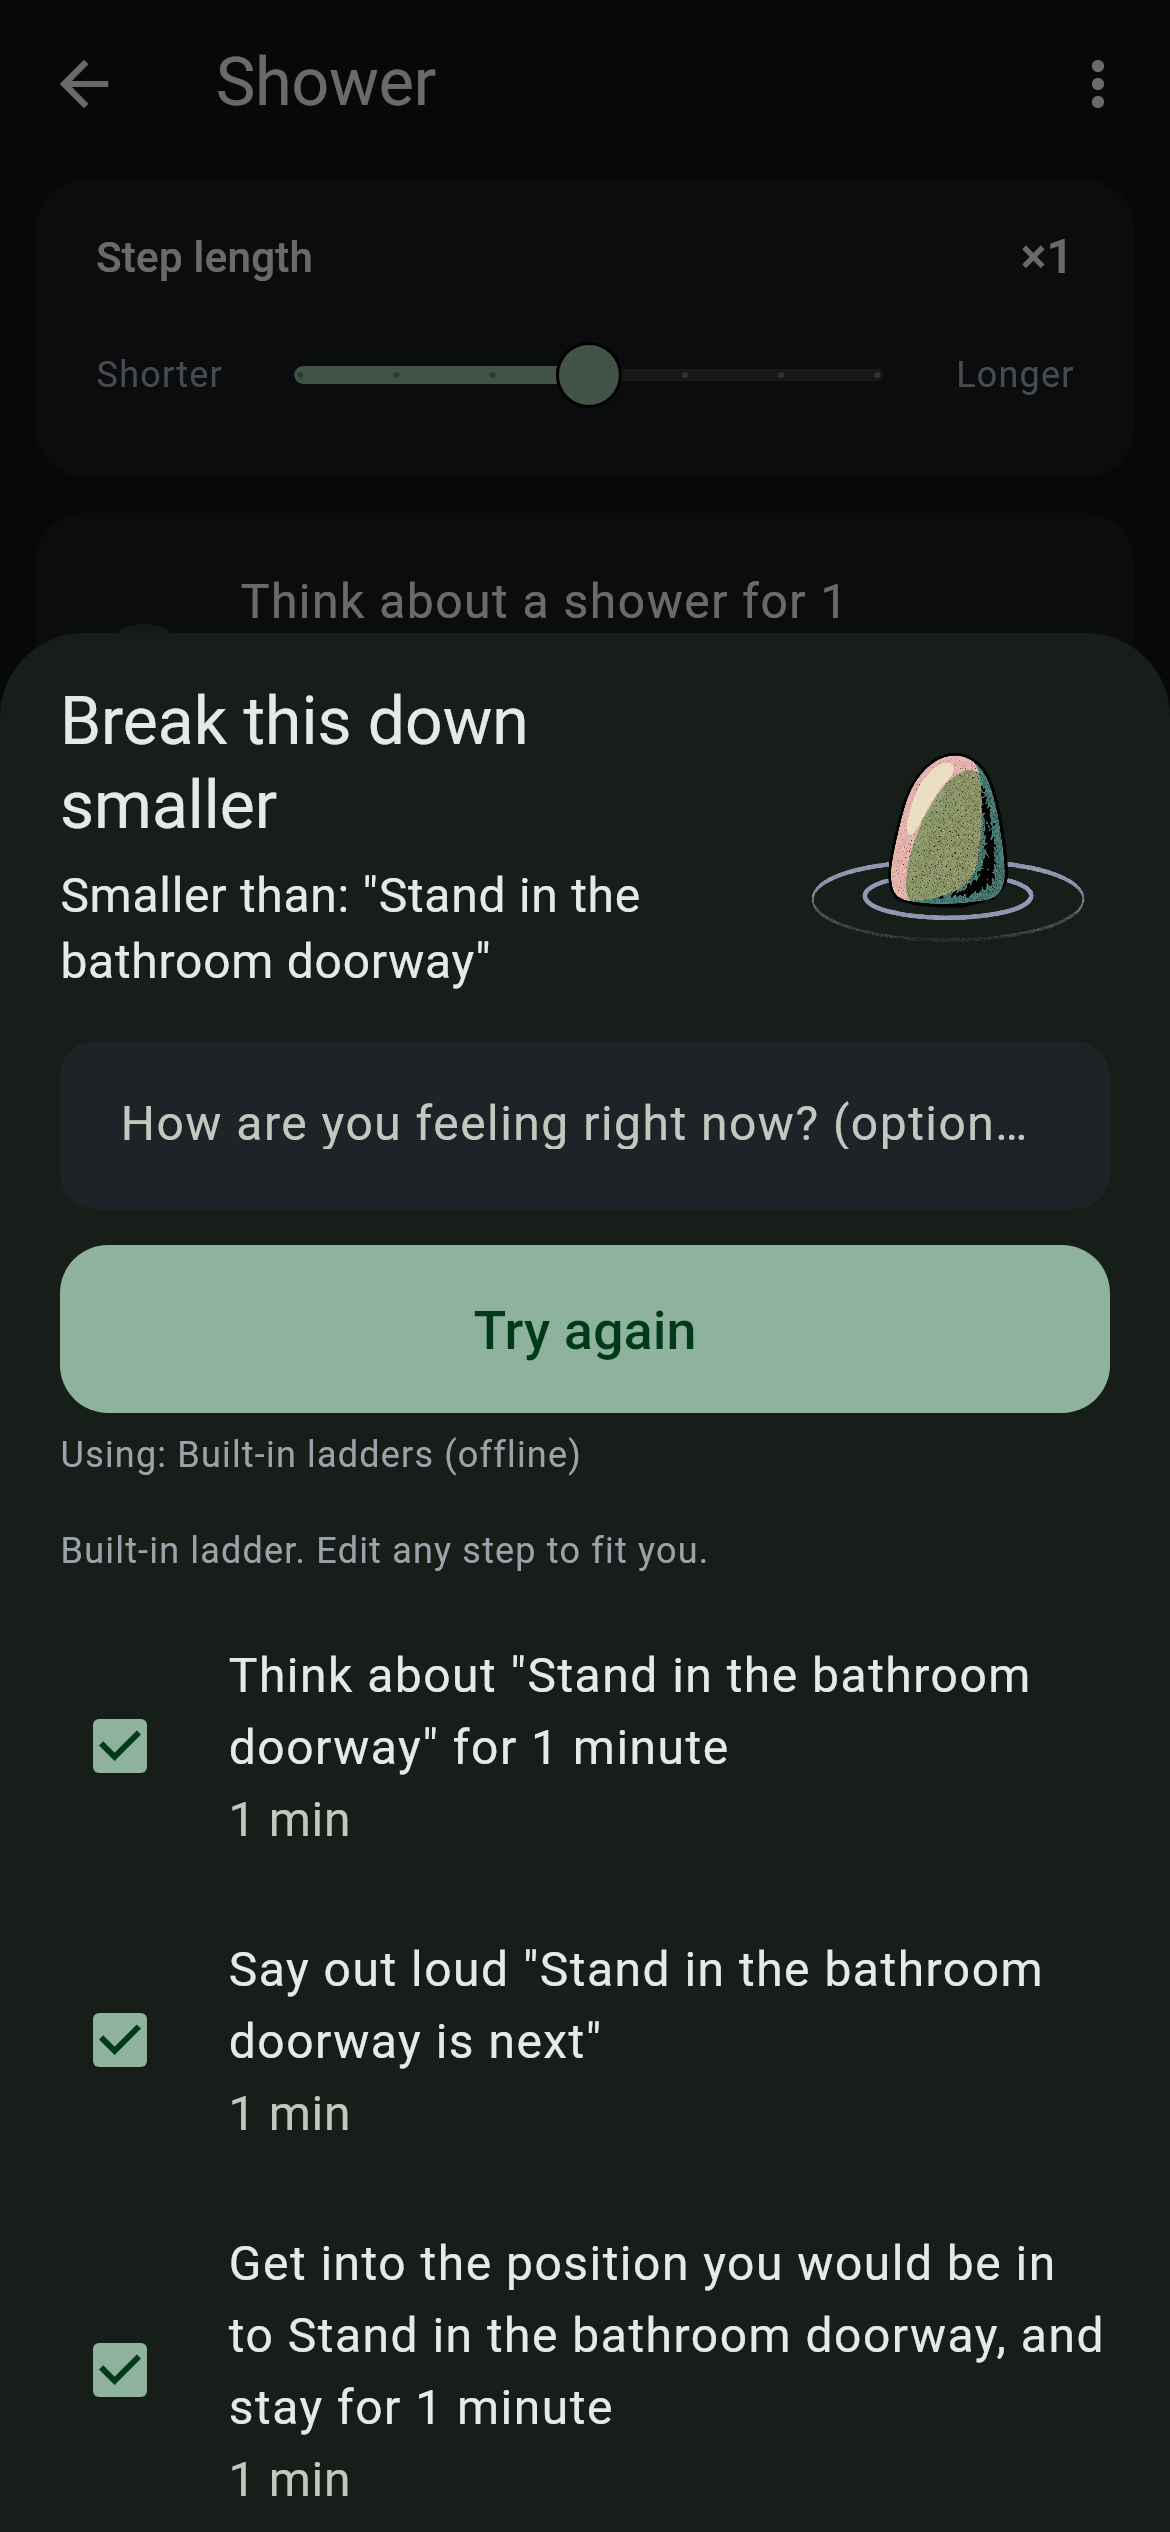
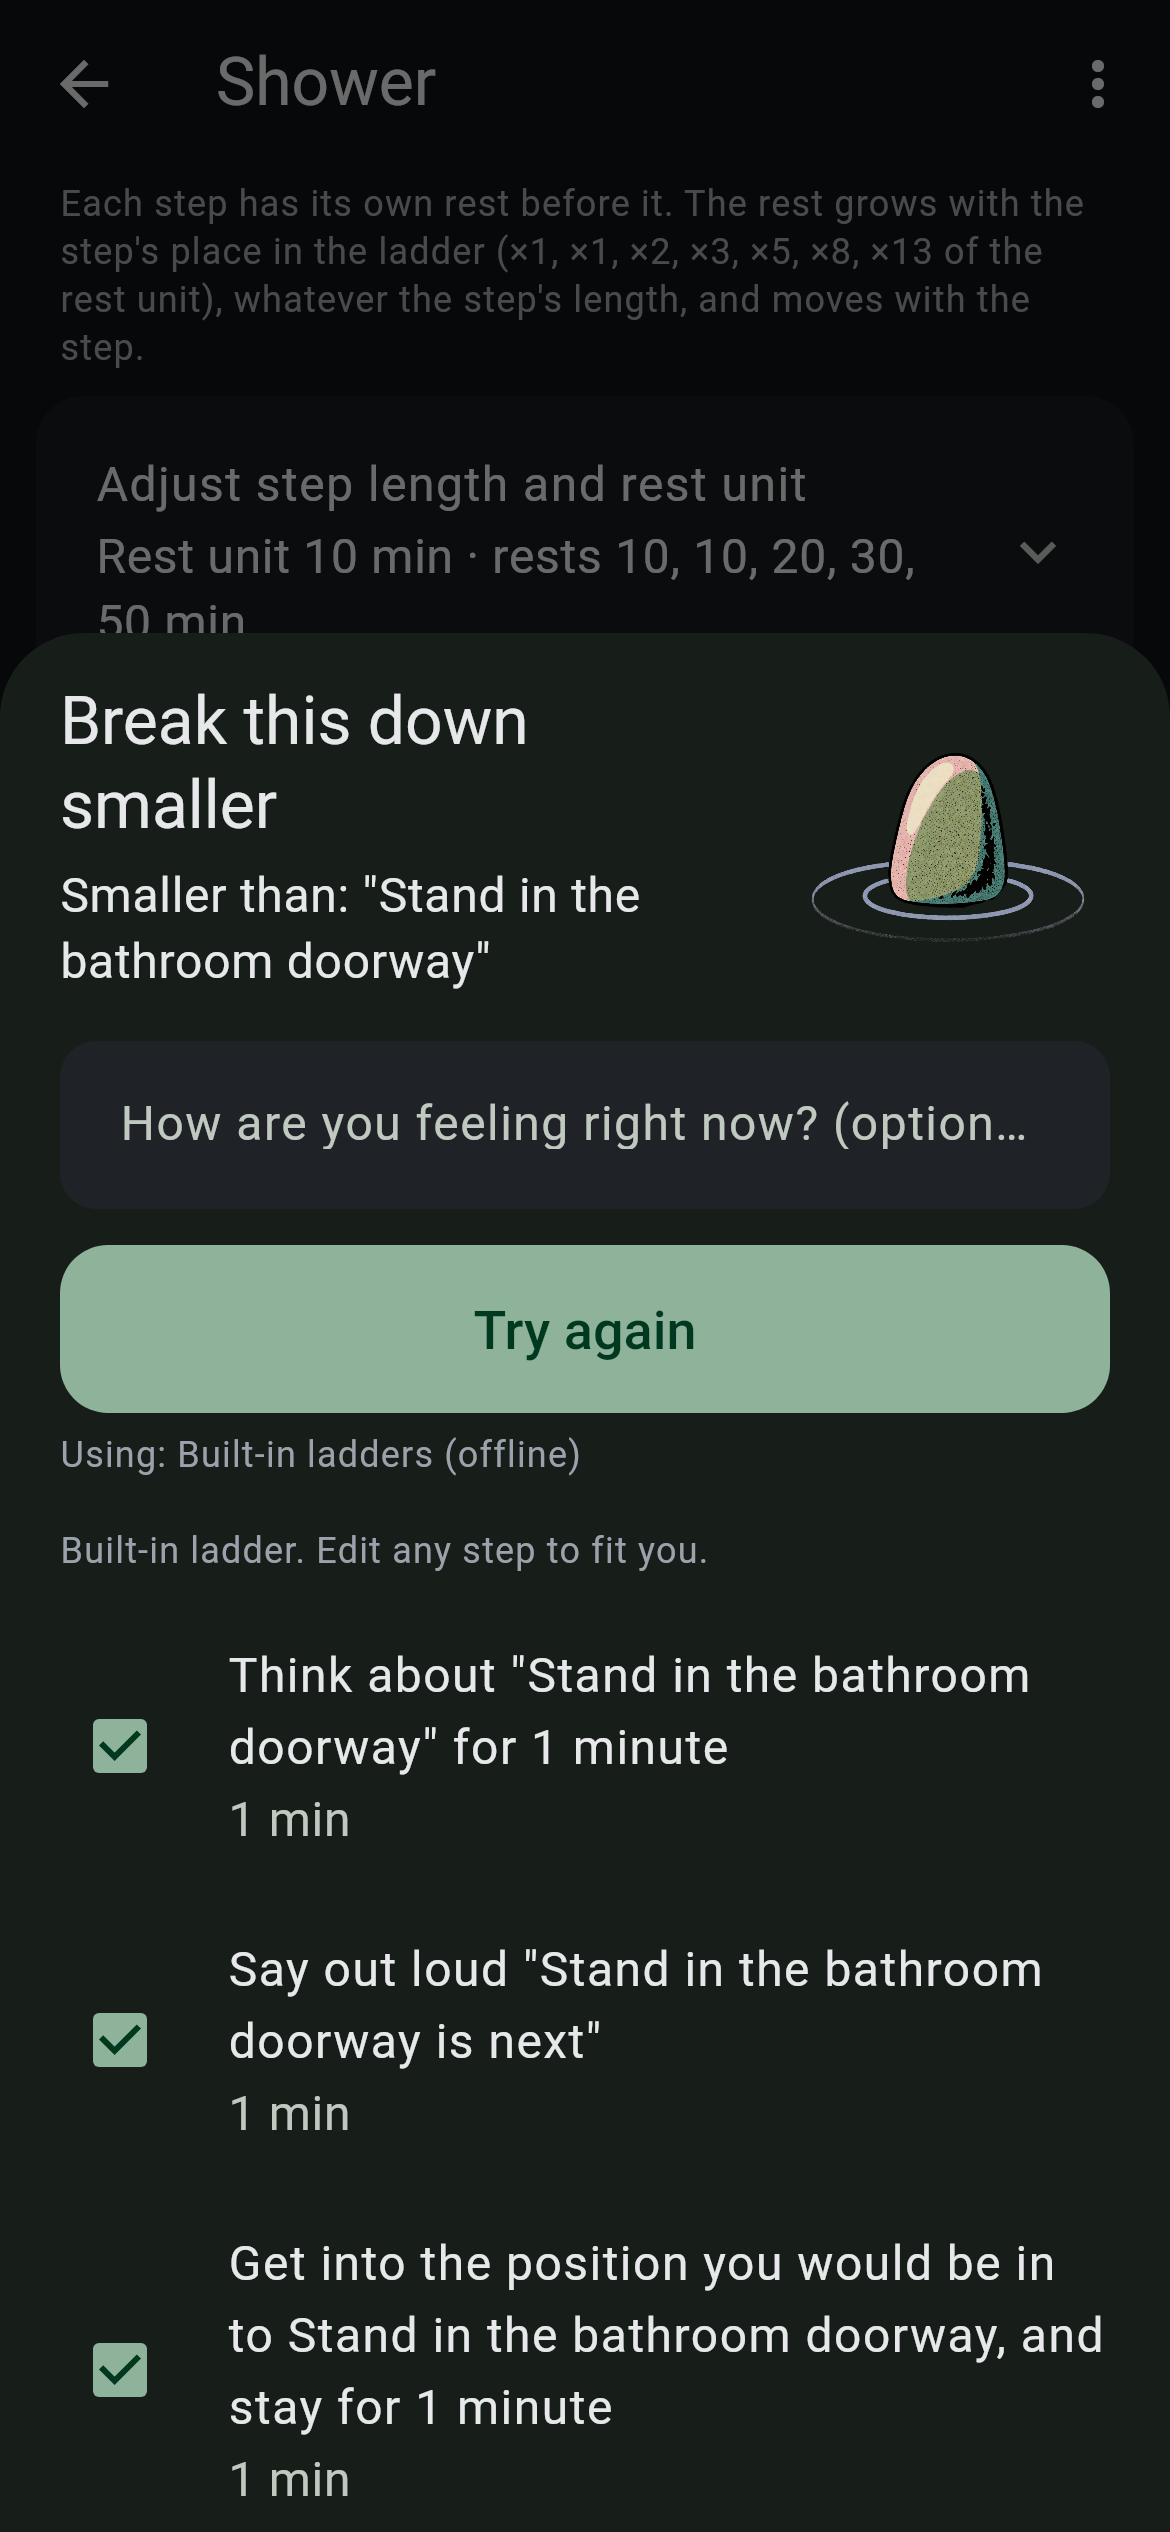
Rests climb with each step's place; stretch sliders for step length and rest unit
LadderRests: the rest before a step is the task's rest unit times 1, 1, 2,
3, 5, 8, 13 by position, whatever the step's length; Task.restUnit (schema
3) with the Settings rest as the fallback. The task screen shows the rest
on every step, explains the climb, and folds two StretchSliders (continuous,
log scale, self-extending while held at an end) into an Adjust tile for
step length and rest unit, each with Undo. The step sheet, edit dialog,
step picker, Start tab and New task dialog all name the rest. Screenshots
regenerated.

Claude-Session: https://claude.ai/code/session_01PaoFeeh7YunX14WNd6GfeR

Changed region(s): [[0.0615, 0.0624, 0.8923, 0.2496], [0.8923, 0.0624, 0.9231, 0.0936]]

diff --git a/lib/ui/tasks/task_detail_screen.dart b/lib/ui/tasks/task_detail_screen.dart
@@ -98,29 +98,43 @@ class _TaskDetailScreenState extends ConsumerState<TaskDetailScreen> {
       body: Column(
         children: [
           Padding(
-            padding: const EdgeInsets.fromLTRB(20, 4, 20, 8),
+            padding: const EdgeInsets.fromLTRB(20, 4, 20, 4),
             child: Text(
-              'Each step is a short approach with its own rest before it. The rest grows with the '
-              'step\'s place in the ladder (×1, ×1, ×2, ×3, ×5, ×8, ×13 of the rest unit), whatever '
-              'the step\'s length, and moves with it.',
+              'Each step has its own rest before it. The rest grows with the step\'s place in '
+              'the ladder (×1, ×1, ×2, ×3, ×5, ×8, ×13 of the rest unit), whatever the step\'s '
+              'length, and moves with the step.',
               style: theme.textTheme.bodySmall,
             ),
           ),
-          if (hasTimes)
-            _StretchCard(
-              title: 'Step length',
-              value: StepScaling.label(_previewFactor),
-              factor: _previewFactor,
-              onChangeStart: () => _draggingSlider = true,
-              onChanged: (f) => setState(() => _previewFactor = f),
-              onChangeEnd: (f) => _applyStepLength(t, f),
+          // The two stretch sliders fold away so the ladder stays in view;
+          // the tiles preview live while either is held.
+          Card(
+            margin: const EdgeInsets.fromLTRB(12, 4, 12, 8),
+            child: ExpansionTile(
+              title: const Text('Adjust step length and rest unit'),
+              subtitle: Text('Rest unit ${formatWords(shownUnit)} · rests ${LadderRests.describe(shownUnit)}'),
+              shape: const Border(),
+              collapsedShape: const Border(),
+              childrenPadding: const EdgeInsets.fromLTRB(20, 0, 20, 12),
+              children: [
+                if (hasTimes)
+                  _StretchRow(
+                    title: 'Step length',
+                    value: StepScaling.label(_previewFactor),
+                    factor: _previewFactor,
+                    onChangeStart: () => _draggingSlider = true,
+                    onChanged: (f) => setState(() => _previewFactor = f),
+                    onChangeEnd: (f) => _applyStepLength(t, f),
+                  ),
+                _StretchRow(
+                  title: 'Rest unit',
+                  value: formatWords(shownUnit),
+                  factor: _restFactor,
+                  onChanged: (f) => setState(() => _restFactor = f),
+                  onChangeEnd: (f) => _applyRestUnit(t, unit, f),
+                ),
+              ],
             ),
-          _StretchCard(
-            title: 'Rest unit',
-            value: '${formatWords(shownUnit)} · ${LadderRests.describe(shownUnit)}',
-            factor: _restFactor,
-            onChanged: (f) => setState(() => _restFactor = f),
-            onChangeEnd: (f) => _applyRestUnit(t, unit, f),
           ),
           Expanded(
             child: ladder.isEmpty
@@ -386,11 +400,11 @@ class _TaskDetailScreenState extends ConsumerState<TaskDetailScreen> {
   }
 }
 
-/// A compact card with a [StretchSlider]: hold it at either end and it keeps
-/// going. Relative: after each release the slider returns to ×1 and the
-/// card's [value] shows what was saved.
-class _StretchCard extends StatelessWidget {
-  const _StretchCard({
+/// A titled [StretchSlider]: hold it at either end and it keeps going.
+/// Relative: after each release the slider returns to ×1 and [value] shows
+/// what was saved.
+class _StretchRow extends StatelessWidget {
+  const _StretchRow({
     required this.title,
     required this.value,
     required this.factor,
@@ -409,37 +423,24 @@ class _StretchCard extends StatelessWidget {
   @override
   Widget build(BuildContext context) {
     final theme = Theme.of(context);
-    return Card(
-      margin: const EdgeInsets.fromLTRB(12, 4, 12, 8),
-      child: Padding(
-        padding: const EdgeInsets.fromLTRB(20, 14, 20, 6),
-        child: Column(
+    return Column(
+      children: [
+        Row(
           children: [
-            Row(
-              children: [
-                Expanded(child: Text(title, style: theme.textTheme.titleSmall)),
-                Flexible(
-                  child: Text(
-                    value,
-                    style: theme.textTheme.labelLarge,
-                    textAlign: TextAlign.end,
-                    overflow: TextOverflow.ellipsis,
-                  ),
-                ),
-              ],
-            ),
-            StretchSlider(
-              factor: factor,
-              semanticsLabel: title,
-              onChanged: (f) {
-                if (factor == 1 && f != 1) onChangeStart?.call();
-                onChanged(f);
-              },
-              onChangeEnd: onChangeEnd,
-            ),
+            Expanded(child: Text(title, style: theme.textTheme.titleSmall)),
+            Text(value, style: theme.textTheme.labelLarge),
           ],
         ),
-      ),
+        StretchSlider(
+          factor: factor,
+          semanticsLabel: title,
+          onChanged: (f) {
+            if (factor == 1 && f != 1) onChangeStart?.call();
+            onChanged(f);
+          },
+          onChangeEnd: onChangeEnd,
+        ),
+      ],
     );
   }
 }

diff --git a/test/widget/task_detail_test.dart b/test/widget/task_detail_test.dart
@@ -116,15 +116,20 @@ void main() {
   testWidgets('the step length slider previews live, saves on release and returns to ×1', (tester) async {
     final h = await _harness();
     await h.pump(tester);
-    expect(find.text('Step length'), findsOneWidget);
-    expect(find.text('×1'), findsOneWidget);
-    expect(find.text('Shorter'), findsNWidgets(2), reason: 'step length and rest unit sliders');
-    expect(find.text('Longer'), findsNWidgets(2));
     // Every step shows its rest (1, 1, 2, 3, 5 units of the 10 min Settings rest) and its time.
     expect(find.text('Rest 10 min · 1 min'), findsOneWidget);
     expect(find.text('Rest 10 min · 2 min'), findsOneWidget);
     expect(find.text('Rest 20 min · 30 sec'), findsOneWidget);
     expect(find.text('Rest 30 min · 5 min'), findsOneWidget);
+    // The sliders fold out of the way until asked for.
+    expect(find.byType(Slider), findsNothing);
+    expect(find.textContaining('Rest unit 10 min · rests 10, 10, 20, 30, 50 min'), findsOneWidget);
+    await tester.tap(find.text('Adjust step length and rest unit'));
+    await tester.pumpAndSettle();
+    expect(find.text('Step length'), findsOneWidget);
+    expect(find.text('×1'), findsOneWidget);
+    expect(find.text('Shorter'), findsNWidgets(2), reason: 'step length and rest unit sliders');
+    expect(find.text('Longer'), findsNWidgets(2));
     final sliders = find.byType(Slider);
     expect(sliders, findsNWidgets(2));
     expect(tester.getSize(sliders.first).height, greaterThanOrEqualTo(AppTheme.minTouchTarget));
@@ -137,7 +142,9 @@ void main() {
     await tester.pump();
 
     expect(find.text('×1'), findsNothing, reason: 'the label follows the drag');
-    expect(find.text('Rest 10 min · 2 min'), findsNothing, reason: '2 min shown longer while held');
+    expect(find.textContaining(RegExp(r'^×\d(\.\d\d?)?$')), findsOneWidget, reason: 'a readable factor');
+    expect(find.text('Rest 10 min · 1 min'), findsNothing, reason: '1 min shown longer while held');
+    expect(find.text('Rest 10 min · 4 min'), findsOneWidget, reason: '2 min shown roughly doubled');
     final held = await h.ladder(tester);
     expect(held[1].suggestedDuration, const Duration(minutes: 2), reason: 'nothing is saved while held');
 
@@ -158,8 +165,9 @@ void main() {
   testWidgets('the rest unit slider rescales every rest and saves the unit on the task', (tester) async {
     final h = await _harness();
     await h.pump(tester);
+    await tester.tap(find.text('Adjust step length and rest unit'));
+    await tester.pumpAndSettle();
     expect(find.text('Rest unit'), findsOneWidget);
-    expect(find.textContaining('10 min · 10, 10, 20, 30, 50 min'), findsOneWidget);
 
     final slider = tester.getRect(find.byType(Slider).last);
     final gesture = await tester.startGesture(slider.center);
@@ -174,9 +182,10 @@ void main() {
     expect(task!.restUnit, isNotNull);
     expect(task.restUnit!, lessThan(const Duration(minutes: 10)));
     expect(find.textContaining('Rest unit is now'), findsOneWidget);
-    // The tiles follow the saved unit.
+    // The tiles and the summary follow the saved unit.
     final first = LadderRests.restFor(unit: task.restUnit!, position: 0);
-    expect(find.textContaining('Rest ${formatWords(first)} · 1 min'), findsOneWidget);
+    expect(find.text('Rest ${formatWords(first)} · 1 min'), findsOneWidget);
+    expect(find.textContaining('Rest unit ${formatWords(task.restUnit!)} · rests'), findsOneWidget);
 
     await h.tearDown(tester);
   });
@@ -185,6 +194,8 @@ void main() {
     final h = await _harness();
     await h.pump(tester);
 
+    await tester.ensureVisible(find.text('Turn the water on'));
+    await tester.pumpAndSettle();
     await tester.tap(find.text('Turn the water on'));
     await tester.pumpAndSettle();
     await tester.tap(find.text('Edit'));
@@ -201,12 +212,12 @@ void main() {
     // Two dialogs are open; the time picker's Save is the topmost one.
     await tester.tap(find.widgetWithText(FilledButton, 'Save').last);
     await tester.pumpAndSettle();
-    expect(find.descendant(of: dialog, matching: find.text('45 sec')), findsOneWidget, reason: 'the tile shows the picked time');
+    expect(find.descendant(of: dialog, matching: find.textContaining('45 sec')), findsOneWidget, reason: 'the tile shows the picked time');
 
     await tester.tap(find.widgetWithText(FilledButton, 'Save'));
     await tester.pumpAndSettle();
     expect(find.text('Edit step'), findsNothing);
-    expect(find.text('45 sec'), findsOneWidget, reason: 'the step tile shows the new time');
+    expect(find.textContaining('45 sec'), findsOneWidget, reason: 'the step tile shows the new time');
     final ladder = await h.ladder(tester);
     expect(ladder[2].text, 'Turn the water on');
     expect(ladder[2].suggestedDuration, const Duration(seconds: 45));
@@ -219,6 +230,8 @@ void main() {
     await h.pump(tester);
     final before = await h.ladder(tester);
 
+    await tester.ensureVisible(find.text('Step in'));
+    await tester.pumpAndSettle();
     await tester.tap(find.text('Step in'));
     await tester.pumpAndSettle();
     await tester.tap(find.text('Remove'));

diff --git a/test/widget/start_flow_test.dart b/test/widget/start_flow_test.dart
@@ -10,6 +10,7 @@ import 'package:depress_o_buster/services/alarms/alarm_service.dart';
 import 'package:depress_o_buster/services/audio/sound_service.dart';
 import 'package:depress_o_buster/services/providers.dart';
 import 'package:depress_o_buster/services/settings/settings_service.dart';
+import 'package:depress_o_buster/ui/tasks/task_detail_screen.dart';
 import 'package:drift/drift.dart' show DatabaseConnection, driftRuntimeOptions;
 import 'package:drift/native.dart';
 import 'package:flutter/material.dart';
@@ -387,7 +388,7 @@ void main() {
     await tester.scrollUntilVisible(
       find.text('Sit next to the pile for 5 minutes'),
       100,
-      scrollable: find.byType(Scrollable).first,
+      scrollable: find.descendant(of: find.byType(TaskDetailScreen), matching: find.byType(Scrollable)),
     );
     await tester.pump();
     await tester.tap(find.text('Sit next to the pile for 5 minutes'));

diff --git a/lib/domain/ladder/step_scaling.dart b/lib/domain/ladder/step_scaling.dart
@@ -40,9 +40,12 @@ class StepScaling {
           : s.copyWith(suggestedDuration: scale(s.suggestedDuration!, factor)),
   ];
 
-  /// "×0.5", "×1", "×1.5".
+  /// "×0.5", "×1", "×1.5", "×1.88": whole numbers plain, otherwise two
+  /// decimals with trailing zeros dropped.
   static String label(double factor) {
-    final text = factor == factor.roundToDouble() ? '${factor.toInt()}' : '$factor';
+    final text = factor == factor.roundToDouble()
+        ? '${factor.toInt()}'
+        : factor.toStringAsFixed(2).replaceFirst(RegExp(r'0+$'), '');
     return '×$text';
   }
 }
